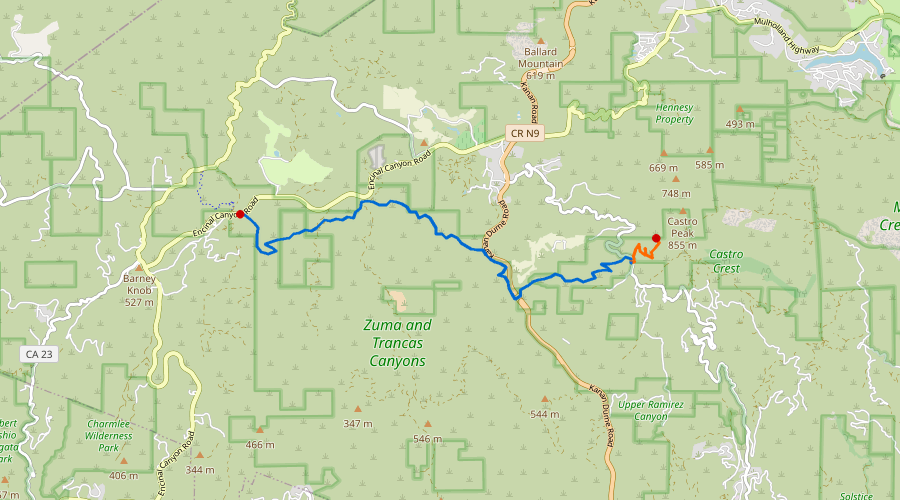
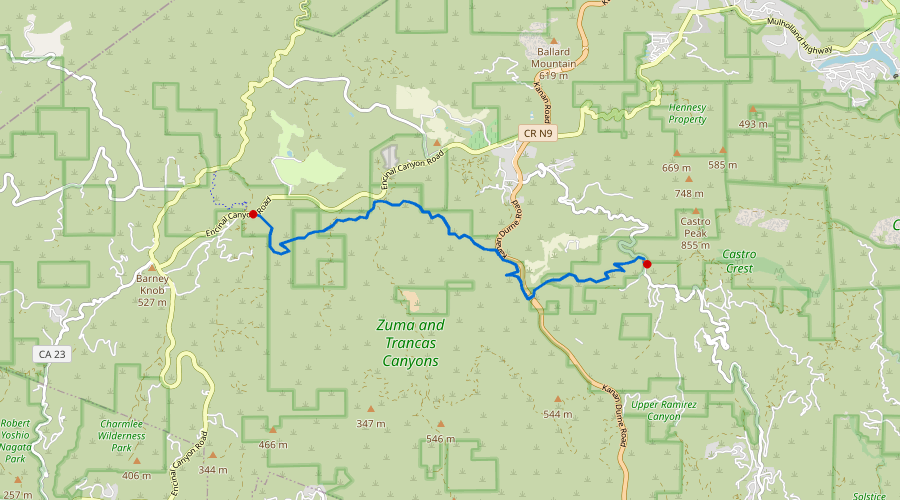
Fix Latigo Canyon Rd segment boundary coordinate
Also off by ~500m, understating Segment 4 and overstating Segment 5.
Corrected against the same GPS waypoint reference; new lengths match
NPS mileage (7.2mi and 9.5mi respectively).

diff --git a/tools/bbt/generate_maps.py b/tools/bbt/generate_maps.py
@@ -52,7 +52,7 @@ SEGMENT_SPLITS = [
     ("Danielson Ranch",      34.125433, -118.994933),  # Danielson Ranch on Big Sycamore Canyon, south end of pavement
     ("Mishe Mokwa TH",       34.114317, -118.918183),  # Yerba Buena Rd at Mishe Mokwa Trailhead
     ("Encinal Canyon Rd",    34.085050, -118.861383),  # Trancas Canyon Trail at Encinal Canyon Rd
-    ("Latigo Canyon Rd",     34.0820, -118.7910),
+    ("Latigo Canyon Rd",     34.077917, -118.793900),  # Newton Canyon Trail at Latigo Canyon Rd
     ("Piuma TH",             34.0799, -118.7037),
     ("Saddle Peak",          34.0819, -118.6441),
     ("Trippet Ranch",        34.0934, -118.5878),

diff --git a/content/report/adhoc/santa-monica-mountains-running.md b/content/report/adhoc/santa-monica-mountains-running.md
@@ -57,7 +57,7 @@ bbt_segments:
   elev_gain_ft:
 - name: "Segment 4: Encinal Canyon Road to Latigo Canyon Road"
   slug: 04-encinal-to-latigo
-  miles_approx: 4.0
+  miles_approx: 7.1
   miles_covered: 1.08
   touched: true
   complete: false
@@ -78,7 +78,7 @@ bbt_segments:
   elev_gain_ft: 211
 - name: "Segment 5: Latigo Canyon Road to Piuma TH"
   slug: 05-latigo-to-piuma
-  miles_approx: 8.7
+  miles_approx: 9.7
   miles_covered: 3.13
   touched: true
   complete: false
